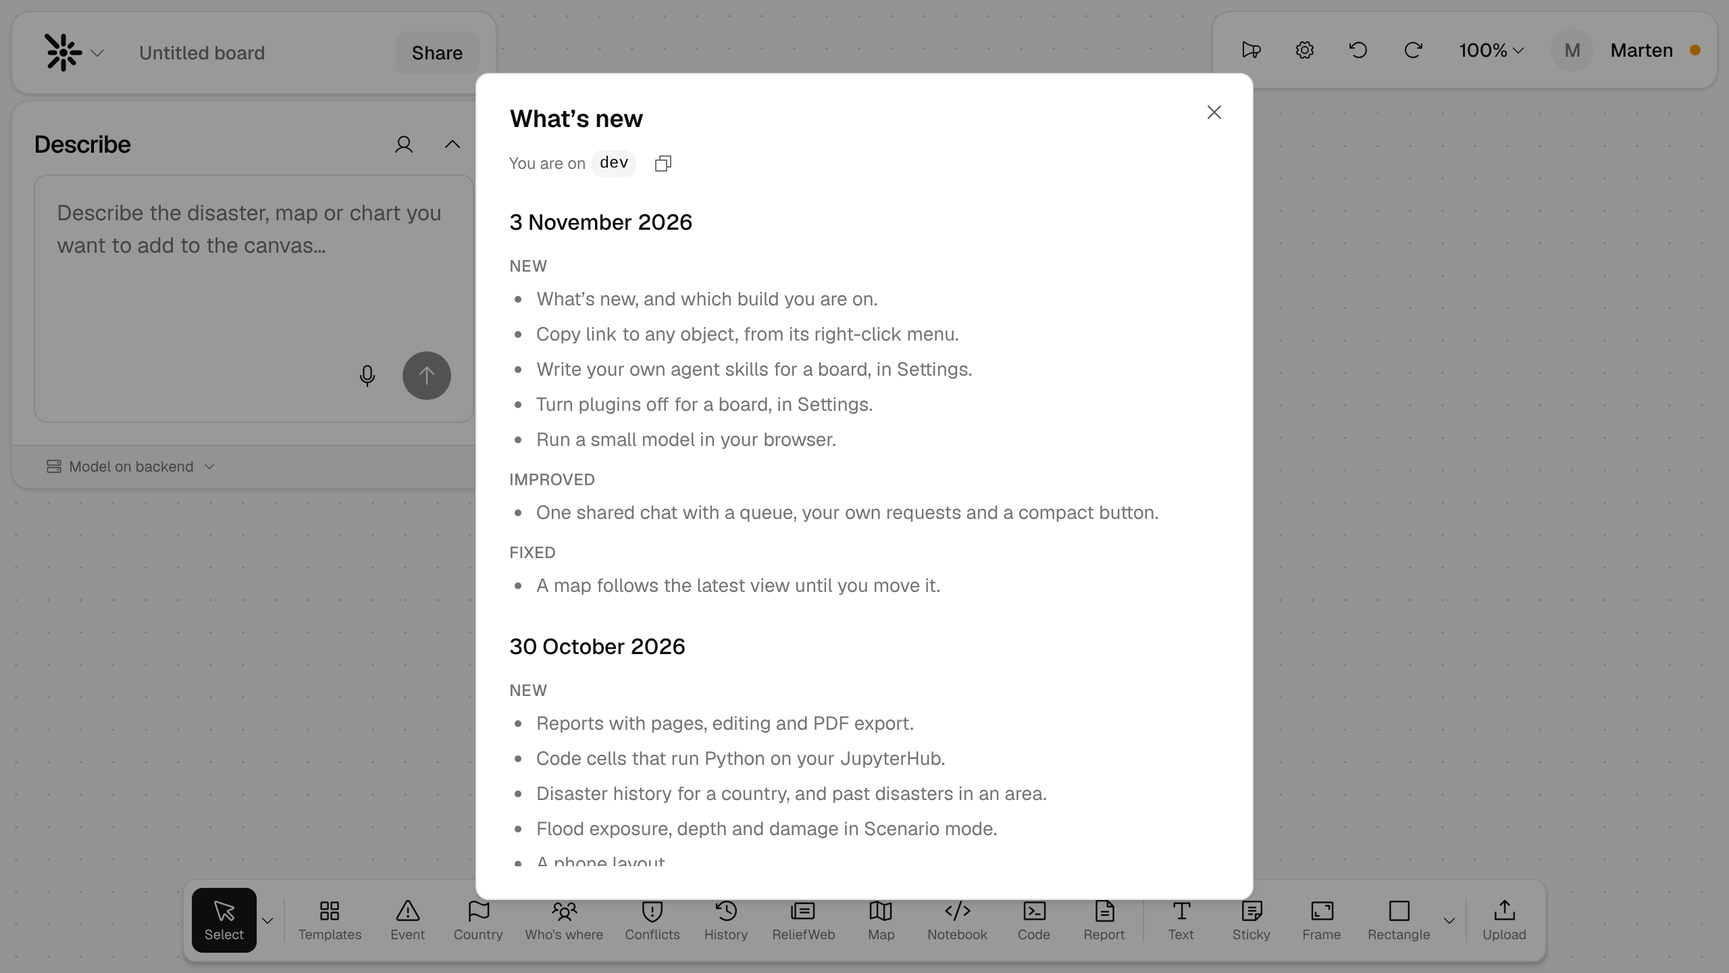
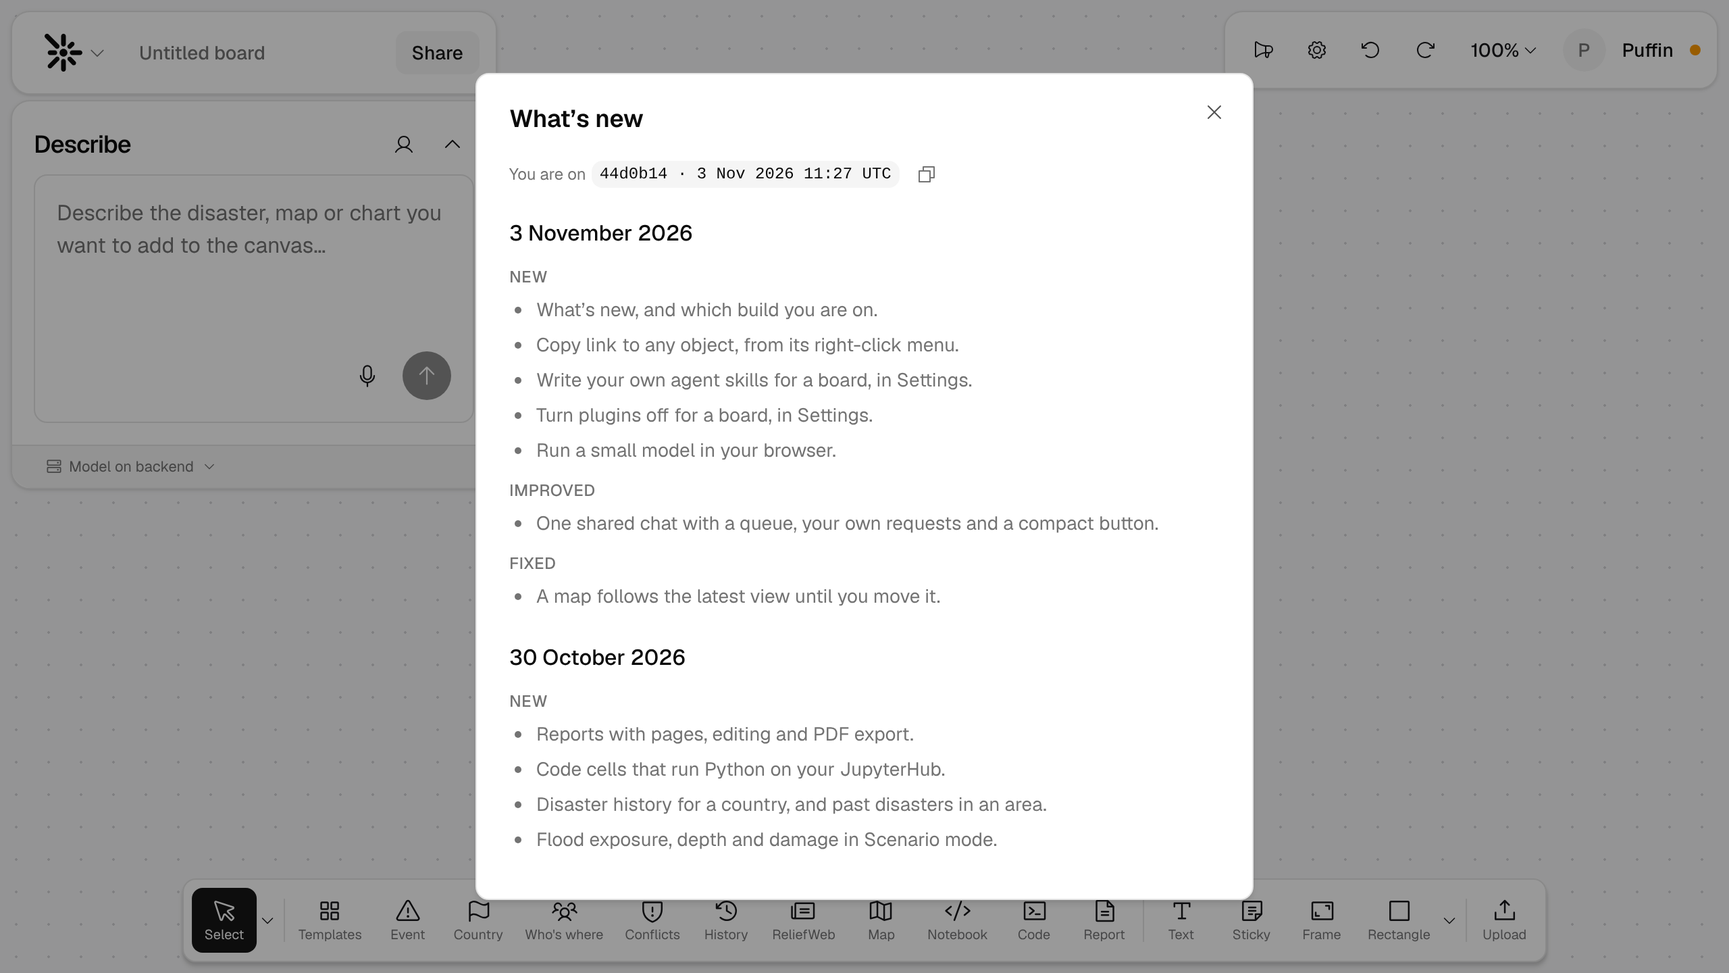
What's new: also a tab in Settings; no dev or local build
A build with no commit (the dev server, a local build) now shows no build
and no channel name, instead of dev or local. What's new is a tab in
Settings too, with a dot, sharing its panel with the megaphone's dialog.

Claude-Session: https://claude.ai/code/session_01Y4Cgc1mYYj7CRhbN3Trvm8

diff --git a/apps/web/src/whatsnew/WhatsNewDialog.tsx b/apps/web/src/whatsnew/WhatsNewDialog.tsx
@@ -10,60 +10,72 @@ import { markNewsSeen } from './seen'
 const day = (date: string) => new Date(`${date}T00:00:00Z`).toLocaleDateString('en-GB', { day: 'numeric', month: 'long', year: 'numeric', timeZone: 'UTC' })
 
 /**
- * What's new, from the megaphone in the user menu: what changed on the board, by date, and the build this tab runs
- * (src/build.ts) with a button to copy it for a bug report. Opening it marks the news seen (seen.ts).
+ * What changed on the board, by date, and the build this tab runs (src/build.ts) with a button to copy it for a bug
+ * report; no build row without a commit (the dev server). Showing it marks the news seen (seen.ts). It is the What's
+ * new tab of Settings and the body of the megaphone's dialog.
  */
-export function WhatsNewDialog({ open, onOpenChange }: { open: boolean; onOpenChange(open: boolean): void }) {
+export function WhatsNewPanel() {
   const [copied, setCopied] = useState(false)
-  useEffect(() => {
-    if (open) markNewsSeen()
-  }, [open])
+  useEffect(markNewsSeen, [])
   useEffect(() => {
     if (!copied) return
     const t = setTimeout(() => setCopied(false), 1500)
     return () => clearTimeout(t)
   }, [copied])
-  const build = formatBuild(BUILD)
+  const build = BUILD && formatBuild(BUILD)
   const copy = async () => {
     try {
-      await navigator.clipboard.writeText(build)
+      if (build) await navigator.clipboard.writeText(build)
       setCopied(true)
     } catch {
       // No clipboard permission: the build is on screen to read out.
     }
   }
   return (
+    <div className="grid gap-4">
+      {build && (
+        <div className="flex flex-wrap items-center gap-x-1 gap-y-0.5 text-xs text-muted-foreground">
+          <span className="whitespace-nowrap">You are on</span>
+          <span className="flex max-w-full items-center gap-1">
+            <code className="max-w-full overflow-x-auto rounded-md bg-muted px-1.5 py-0.5 font-mono whitespace-nowrap text-foreground" data-testid="build">{build}</code>
+            <Button variant="ghost" size="icon-sm" title="Copy the build for a bug report" aria-label="Copy the build for a bug report" onClick={copy}>
+              {copied ? <CheckIcon className="size-4" /> : <CopyIcon className="size-4" />}
+            </Button>
+          </span>
+        </div>
+      )}
+      {NEWS.map((entry) => (
+        <section key={entry.date} className="mb-2 grid gap-3">
+          <h3 className="m-0 text-base font-medium">{day(entry.date)}</h3>
+          {SECTIONS.map(([key, label]) =>
+            entry[key]?.length ? (
+              <div key={key} className="grid gap-1.5">
+                <h4 className="m-0 text-xs font-medium tracking-wide text-muted-foreground uppercase">{label}</h4>
+                <ul className="m-0 grid list-disc gap-1.5 pl-5 text-sm text-muted-foreground">
+                  {entry[key].map((line) => (
+                    <li key={line}>{line}</li>
+                  ))}
+                </ul>
+              </div>
+            ) : null,
+          )}
+        </section>
+      ))}
+    </div>
+  )
+}
+
+/** What's new on its own, from the megaphone (user menu, phone's bar). */
+export function WhatsNewDialog({ open, onOpenChange }: { open: boolean; onOpenChange(open: boolean): void }) {
+  return (
     <Dialog open={open} onOpenChange={onOpenChange}>
       <DialogContent className="h-[min(640px,85vh)] grid-rows-[auto_minmax(0,1fr)] sm:max-w-xl">
         <DialogHeader>
           <DialogTitle>What’s new</DialogTitle>
           <DialogDescription className="sr-only">What changed on the board, newest first, and the build you are on.</DialogDescription>
-          <div className="flex items-center gap-1 text-xs text-muted-foreground">
-            <span>You are on</span>
-            <code className="rounded-md bg-muted px-1.5 py-0.5 font-mono text-foreground" data-testid="build">{build}</code>
-            <Button variant="ghost" size="icon-sm" title="Copy the build for a bug report" aria-label="Copy the build for a bug report" onClick={copy}>
-              {copied ? <CheckIcon className="size-4" /> : <CopyIcon className="size-4" />}
-            </Button>
-          </div>
         </DialogHeader>
         <div className="min-h-0 min-w-0 overflow-y-auto pr-1">
-          {NEWS.map((entry) => (
-            <section key={entry.date} className="mb-6 grid gap-3">
-              <h3 className="m-0 text-base font-medium">{day(entry.date)}</h3>
-              {SECTIONS.map(([key, label]) =>
-                entry[key]?.length ? (
-                  <div key={key} className="grid gap-1.5">
-                    <h4 className="m-0 text-xs font-medium tracking-wide text-muted-foreground uppercase">{label}</h4>
-                    <ul className="m-0 grid list-disc gap-1.5 pl-5 text-sm text-muted-foreground">
-                      {entry[key].map((line) => (
-                        <li key={line}>{line}</li>
-                      ))}
-                    </ul>
-                  </div>
-                ) : null,
-              )}
-            </section>
-          ))}
+          <WhatsNewPanel />
         </div>
       </DialogContent>
     </Dialog>

diff --git a/apps/web/src/chrome/SettingsDialog.tsx b/apps/web/src/chrome/SettingsDialog.tsx
@@ -5,13 +5,16 @@ import { Tabs, TabsContent, TabsList, TabsTrigger } from '@/components/ui/tabs'
 import { SkillsSettings } from '../agent/SkillsSettings'
 import { usePluginsOff } from '../board/plugins'
 import { HubSettings } from '../code/HubSettings'
+import { WhatsNewPanel } from '../whatsnew/WhatsNewDialog'
+import { useNewsUnseen } from '../whatsnew/seen'
 
 /**
  * Settings, from the gear in the user menu. Plugins is the board's, for everyone on it: turn optional plugins on or
  * off (board.setPlugins). A plugin that is off is not offered in the toolbar, the palette or to agents; the objects
  * it made stay on the board. Skills are the agent's: the built-in ones to read, and the board's own, for everyone on
  * it (agent/SkillsSettings.tsx); not shown while the agent is off. JupyterHub is this person's own login, kept in this
- * browser (code/hub.ts).
+ * browser (code/hub.ts). What's new is the list of changes and the build this tab runs (whatsnew/), with a dot while
+ * there is news this browser has not seen; showing it marks the news seen.
  */
 /**
  * A tab's panel: it scrolls on its own. Without Tailwind's preflight, `hidden` does not win over a display class, so
@@ -21,6 +24,7 @@ const PANEL = 'min-h-0 min-w-0 content-start gap-3 overflow-y-auto data-[state=i
 
 export function SettingsDialog({ runtime, open, onOpenChange }: { runtime: Runtime; open: boolean; onOpenChange(open: boolean): void }) {
   const off = usePluginsOff(runtime)
+  const unseen = useNewsUnseen()
   const stored = runtime.board.disabledPlugins
   const plugins = runtime.registry.plugins.filter((p) => p.optional)
   const title = (id: string) => runtime.registry.plugins.find((p) => p.id === id)?.title ?? id
@@ -43,6 +47,10 @@ export function SettingsDialog({ runtime, open, onOpenChange }: { runtime: Runti
             <TabsTrigger value="plugins">Plugins</TabsTrigger>
             {!off.has('agent') && <TabsTrigger value="skills">Skills</TabsTrigger>}
             <TabsTrigger value="hub">JupyterHub</TabsTrigger>
+            <TabsTrigger value="news" className="gap-1.5">
+              What’s new
+              {unseen && <span className="size-2 rounded-full bg-teal-600" aria-label="New" />}
+            </TabsTrigger>
           </TabsList>
           <TabsContent value="plugins" className={`grid ${PANEL}`}>
             <p className="text-sm text-muted-foreground">
@@ -75,6 +83,9 @@ export function SettingsDialog({ runtime, open, onOpenChange }: { runtime: Runti
           <TabsContent value="hub" className={`grid ${PANEL}`}>
             <p className="text-sm text-muted-foreground">Only for you, in this browser. Code cells run on your own hub, as you.</p>
             <HubSettings />
+          </TabsContent>
+          <TabsContent value="news" className={`grid ${PANEL}`}>
+            <WhatsNewPanel />
           </TabsContent>
         </Tabs>
       </DialogContent>

diff --git a/apps/web/src/build.ts b/apps/web/src/build.ts
@@ -1,26 +1,29 @@
 /**
- * Which build this is (issue #125). Every push deploys, so the commit is the version: there are no release numbers.
- * vite.config.ts injects it as `__TTX_BUILD__`; `npm run dev` is `dev`.
+ * Which build this is (issue #125). Every push deploys, so the commit is the version: there are no release numbers and
+ * no channels. vite.config.ts injects it as `__TTX_BUILD__` for a build that has a commit (CI); the dev server and a
+ * local build have none, and nothing is shown for them.
  */
 export interface Build {
-  /** The short commit, or `dev` (npm run dev) or `local` (a build outside CI). */
+  /** The short commit. */
   sha: string
-  /** When it was built, ISO UTC. Not in dev. */
+  /** When it was built, ISO UTC. */
   time?: string
   /** The branch, for a branch Worker; not for main. */
   branch?: string
 }
 
-declare const __TTX_BUILD__: Build | undefined
+declare const __TTX_BUILD__: Build | null | undefined
 
-/** The running build. Tests and tools that do not go through Vite have no define: they are `dev`. */
-export const BUILD: Build = typeof __TTX_BUILD__ === 'undefined' ? { sha: 'dev' } : __TTX_BUILD__
+/** The running build, if it has a commit. Tests and tools that do not go through Vite have no define. */
+export const BUILD: Build | undefined = (typeof __TTX_BUILD__ === 'undefined' ? null : __TTX_BUILD__) ?? undefined
 
-/** The build a CI run or a local `vite build` makes (GITHUB_SHA and GITHUB_REF_NAME are set by GitHub Actions). */
-export function buildFromEnv(env: Record<string, string | undefined>, now: Date): Build {
+/** The build a CI run makes (GITHUB_SHA and GITHUB_REF_NAME are set by GitHub Actions); none without a commit. */
+export function buildFromEnv(env: Record<string, string | undefined>, now: Date): Build | undefined {
+  const sha = env.GITHUB_SHA?.slice(0, 7)
+  if (!sha) return undefined
   const branch = env.GITHUB_REF_NAME
   return {
-    sha: env.GITHUB_SHA?.slice(0, 7) || 'local',
+    sha,
     time: now.toISOString(),
     ...(branch && branch !== 'main' ? { branch } : {}),
   }

diff --git a/apps/web/vite.config.ts b/apps/web/vite.config.ts
@@ -36,22 +36,22 @@ const mcpPairing: Plugin = {
  * The service worker (src/pwa/sw.js), written into the build as /sw.js with the build's version and the files to cache
  * when it installs (src/pwa/precache.ts). Not in dev: it is registered in production builds only.
  */
-const serviceWorker = (build: Build): Plugin => ({
+const serviceWorker = (build: Build | undefined): Plugin => ({
   name: 'ttx-service-worker',
   apply: 'build',
   generateBundle(_options, bundle) {
     const files = bundle as unknown as Record<string, BundleFile>
-    // BUILD is the commit the page shows: the update notice asks the waiting worker for it (src/pwa/register.ts).
-    const head = `const VERSION = ${JSON.stringify(buildVersion(files))}\nconst BUILD = ${JSON.stringify(build.sha)}\nconst PRECACHE = ${JSON.stringify(precacheList(files))}\n`
+    // BUILD is the commit the page shows ('' without one): the update notice asks the waiting worker for it (src/pwa/register.ts).
+    const head = `const VERSION = ${JSON.stringify(buildVersion(files))}\nconst BUILD = ${JSON.stringify(build?.sha ?? '')}\nconst PRECACHE = ${JSON.stringify(precacheList(files))}\n`
     this.emitFile({ type: 'asset', fileName: 'sw.js', source: head + readFileSync(new URL('./src/pwa/sw.js', import.meta.url), 'utf8') })
   },
 })
 
 export default defineConfig(({ command }) => {
-  // The commit and time of a build (src/build.ts); `npm run dev` is `dev`.
-  const build: Build = command === 'build' ? buildFromEnv(process.env, new Date()) : { sha: 'dev' }
+  // The commit and time of a build (src/build.ts), when it has one: not the dev server.
+  const build = command === 'build' ? buildFromEnv(process.env, new Date()) : undefined
   return {
-    define: { __TTX_BUILD__: JSON.stringify(build) },
+    define: { __TTX_BUILD__: JSON.stringify(build ?? null) },
     plugins: [react(), tailwindcss(), mcpPairing, mdText, serviceWorker(build)],
     resolve: { alias: { '@': fileURLToPath(new URL('./src', import.meta.url)) } },
     server: {

diff --git a/apps/web/test/build.test.ts b/apps/web/test/build.test.ts
@@ -18,9 +18,6 @@ describe('formatBuild', () => {
   it('names the branch of a branch Worker', () => {
     expect(formatBuild({ sha: 'abc1234', branch: 'feat/maps', time: '2026-11-02T14:05:00Z' })).toBe('abc1234 · feat/maps · 2 Nov 2026 14:05 UTC')
   })
-  it('is just dev for the dev server', () => {
-    expect(formatBuild({ sha: 'dev' })).toBe('dev')
-  })
 })
 
 describe('buildFromEnv', () => {
@@ -29,9 +26,10 @@ describe('buildFromEnv', () => {
     expect(buildFromEnv({ GITHUB_SHA: 'abc1234def5678', GITHUB_REF_NAME: 'main' }, now)).toEqual({ sha: 'abc1234', time: now.toISOString() })
   })
   it('keeps the branch of another branch', () => {
-    expect(buildFromEnv({ GITHUB_SHA: 'abc1234def5678', GITHUB_REF_NAME: 'feat/maps' }, now).branch).toBe('feat/maps')
+    expect(buildFromEnv({ GITHUB_SHA: 'abc1234def5678', GITHUB_REF_NAME: 'feat/maps' }, now)?.branch).toBe('feat/maps')
   })
-  it('is local outside CI', () => {
-    expect(buildFromEnv({}, now)).toEqual({ sha: 'local', time: now.toISOString() })
+  it('has no build without a commit: the dev server and a local build show none', () => {
+    expect(buildFromEnv({}, now)).toBeUndefined()
+    expect(buildFromEnv({ GITHUB_SHA: '' }, now)).toBeUndefined()
   })
 })

diff --git a/apps/web/src/pwa/register.ts b/apps/web/src/pwa/register.ts
@@ -18,7 +18,8 @@ export function registerServiceWorker() {
   navigator.serviceWorker.addEventListener('controllerchange', () => switching && location.reload())
   navigator.serviceWorker.addEventListener('message', (event) => {
     const build = (event.data as { build?: unknown } | null)?.build
-    if (typeof build !== 'string') return
+    // The worker has no commit ('') when the build had none.
+    if (typeof build !== 'string' || !build) return
     waitingBuild = build
     for (const l of listeners) l()
   })

diff --git a/AGENTS.md b/AGENTS.md
@@ -134,7 +134,7 @@ extras/          local dev helpers: a JupyterHub configuration for code cells (e
 - **Rooms:** one board per `#room=<id>`, with a random 16-character id (`board/room.ts`); the URL is the link to share. There is no access control per board: anyone with the link and the deployment's password can edit, so keep real exercise data off the preview. `main.tsx` loads the board (`App.tsx`: canvas, maps, socket) only for a `#room`; without one it shows the landing page (`home/Landing.tsx`), and `#new` opens its New board dialog. Changing the hash reloads the page.
 - **Phone layout** (`plans/plan-018.md`, experiment): on a screen at most 640 px wide (`apps/web/src/layout.ts`; `?layout=phone|desktop|auto` overrides it per browser), a board opens `mobile/MobileApp.tsx` instead of the canvas, on the same room (`board/session.ts`). Ask (the chat, the default) and Board (the widgets as a list in reading order, frames as sections, boxes left out: `mobile/order.ts`). A card is the type's own `View`, scaled (`mobile/ScaledObject.tsx`), so a new type needs no phone code; a tap opens it full screen, in focus mode on a draft (Share, and the exit dialog) for types with a focus mode, live for the others; a long press chooses a card; the browser's back closes the full screen (`mobile/history.ts`). The chosen card is the presence selection; `runtime.view.center()` is next to it, so the agent's and the palette's adds go there (`mobile/placement.ts`). Edits go through the command palette. The Board tab also has a read-only Canvas view (`mobile/BoardCanvas.tsx`: pan, pinch, tap to open; it never writes). A Reports tab shows each report reflowed at the screen's width (`ReportContent`). On iOS the viewport gets `maximum-scale=1` (`src/iosZoom.ts`): Safari zooms into fields under 16px on focus and keeps the zoom; pinch zoom still works there. Do not add it for Android, where it stops pinch zoom.
 - **PWA** (`plans/plan-018.md`, `apps/web/src/pwa/`): `manifest.webmanifest` and icons in `apps/web/public`; the build writes the service worker (`src/pwa/sw.js`, a plain-JS template) to `/sw.js` with its version and precache list (`precache.ts`, a Vite plugin in `vite.config.ts`). Registered in production builds only (`npm run sync` serves one; `npm run dev` has none). Pages are network-first (4 s), `/assets/*` cache-first; nothing else is touched. A new version waits for the person's Reload (`UpdateNotice.tsx`). Its caches are named `ttx-app-<version>`; leave other Cache API caches alone.
-- **Build and What's new** (issue #125; `apps/web/src/build.ts`, `apps/web/src/whatsnew/`): every push deploys, so the commit is the version and there are no release numbers. `vite.config.ts` injects `__TTX_BUILD__` (`buildFromEnv`: the short `GITHUB_SHA`, the build time in UTC, and `GITHUB_REF_NAME` unless it is `main`; `local` for a build outside CI, `dev` under `npm run dev`), which `BUILD` and `formatBuild` read (`abc1234 · feat/x · 2 Nov 2026 14:05 UTC`). The service worker also gets the commit (`BUILD` in `sw.js`): the update notice asks the waiting worker for it, so it reads "A new version of the app is ready (abc1234)". The megaphone in the user menu opens What's new (`whatsnew/WhatsNewDialog.tsx`): the running build with a Copy button for bug reports, then the news (`whatsnew/entries.ts`, from `whatsnew/news.json`): entries by date, newest first, in New, Improved and Fixed, at most 5 short lines each. **Nobody writes them: the deploy does** (`.github/workflows/deploy.yml`, before the build). `npm run news -w apps/web` (`scripts/generate-news.ts`) sends the subjects and dates of the last 14 days of commits (no bodies, no code) to OpenRouter with `OPENROUTER_API_KEY` (model `NEWS_MODEL`, default the board agent's). `whatsnew/generate.ts` checks the answer (dates in the window, one entry per date, at most 5 lines of 140 characters; anything else is refused) and merges it into `news.json` with the older entries. The result is built into the app and never committed. Without the key, an answer or a fit, the committed `news.json` is built, so a local build shows that. The model reads commit subjects, so write them so that someone who does not know the code could tell what changed. Run it by hand with the key to see the list locally; it edits `news.json`, which you should not commit. On the phone the same megaphone is in the top bar (`WhatsNewButton phone`). The dot on the megaphone shows until this browser opens the dialog on the newest date (`whatsnew/seen.ts`, localStorage `ttx/whatsnew`). The build's time is inside the app's chunks, so every deploy changes them even with no code change (they would change anyway: each push is a new version of the service worker).
+- **Build and What's new** (issue #125; `apps/web/src/build.ts`, `apps/web/src/whatsnew/`): every push deploys, so the commit is the version and there are no release numbers. `vite.config.ts` injects `__TTX_BUILD__` (`buildFromEnv`: the short `GITHUB_SHA`, the build time in UTC, and `GITHUB_REF_NAME` unless it is `main`; with no `GITHUB_SHA`, as under `npm run dev` or a local build, there is no build and nothing is shown: no `dev` or other channel), which `BUILD` and `formatBuild` read (`abc1234 · feat/x · 2 Nov 2026 14:05 UTC`). The service worker also gets the commit (`BUILD` in `sw.js`): the update notice asks the waiting worker for it, so it reads "A new version of the app is ready (abc1234)". The megaphone in the user menu opens What's new (`whatsnew/WhatsNewDialog.tsx`): the running build (when it has one) with a Copy button for bug reports, then the news (`whatsnew/entries.ts`, from `whatsnew/news.json`): entries by date, newest first, in New, Improved and Fixed, at most 5 short lines each. **Nobody writes them: the deploy does** (`.github/workflows/deploy.yml`, before the build). `npm run news -w apps/web` (`scripts/generate-news.ts`) sends the subjects and dates of the last 14 days of commits (no bodies, no code) to OpenRouter with `OPENROUTER_API_KEY` (model `NEWS_MODEL`, default the board agent's). `whatsnew/generate.ts` checks the answer (dates in the window, one entry per date, at most 5 lines of 140 characters; anything else is refused) and merges it into `news.json` with the older entries. The result is built into the app and never committed. Without the key, an answer or a fit, the committed `news.json` is built, so a local build shows that. The model reads commit subjects, so write them so that someone who does not know the code could tell what changed. Run it by hand with the key to see the list locally; it edits `news.json`, which you should not commit. On the phone the same megaphone is in the top bar (`WhatsNewButton phone`). The dot on the megaphone shows until this browser opens the dialog on the newest date (`whatsnew/seen.ts`, localStorage `ttx/whatsnew`). The build's time is inside the app's chunks, so every deploy changes them even with no code change (they would change anyway: each push is a new version of the service worker).
 - **Landing page and New board** (`agent-docs/tasks/board-templates.md`): the landing page lists the boards this browser has opened (`home/recents.ts`, localStorage `ttx/boards`), since there are no accounts and the Worker cannot list rooms; removing one from the list does not delete the board. Open board takes a board ID or URL (`roomFromLink`): in the heading row, beside New board, when boards are listed; when none are, both are only in the empty page's card. The New board dialog takes a name, then a blank board or one of the templates (`home/templates.ts` reads them from the `template.*` ops, with each seed's picker: `EventPicker`, `AreaPicker` without "my view"). Every seed can be left for later. A typed area must be picked from the list, since a failed lookup on the new board would show nowhere. The dialog saves the name, template and seeds in sessionStorage under the new room (`home/pending.ts`) and opens it; only that tab sets the board up (`board.setTitle`, then `template.<id>` in the middle of the view), once, after the room's doc has synced, and not on a board that has objects.
 - **Links to objects and "show me"** (`plans/plan-027.md`): `#room=<room>&obj=<object id>` opens the board on one object, selected and in the middle of the view (`objectLink`, `objectFromHash` in `board/room.ts`); Copy link is in the right-click menu of one object. The canvas shows it once the doc has synced and then removes `&obj=` from the URL; a hash change that only changes the object does not reload the page. The camera stays local: the core op `core.view.show` writes a show request for the runner (for an agent, the asker) in the doc's `nav` map (`packages/core/src/nav.ts`, `BoardTx.showTo`), and that person's browser shows the object. It needs no camera, so the room's agent and the browser agent can use it, unlike the other `core.view.*` ops. The phone layout ignores `obj`.
 - **Board title:** a `meta` map in the doc (`Board.meta`, `Board.title`), written only by the core op `board.setTitle` (`BoardTx.setTitle`); the title bar shows it and renames it. The UndoManager tracks `objects` only, so a rename is not undone. `summarizeBoard` gives the title first.
